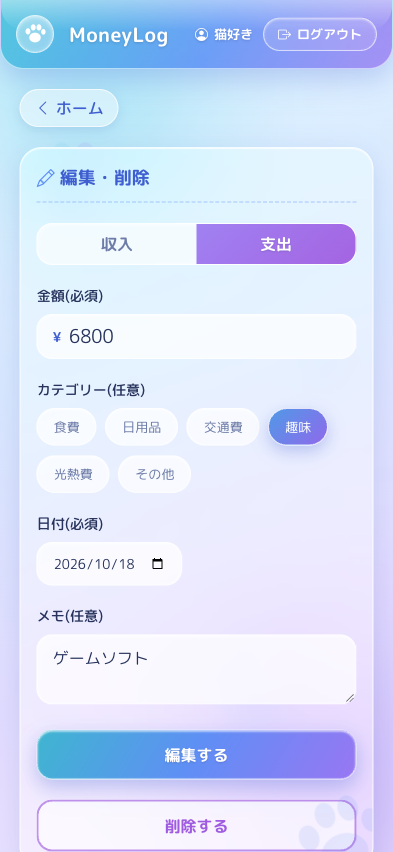
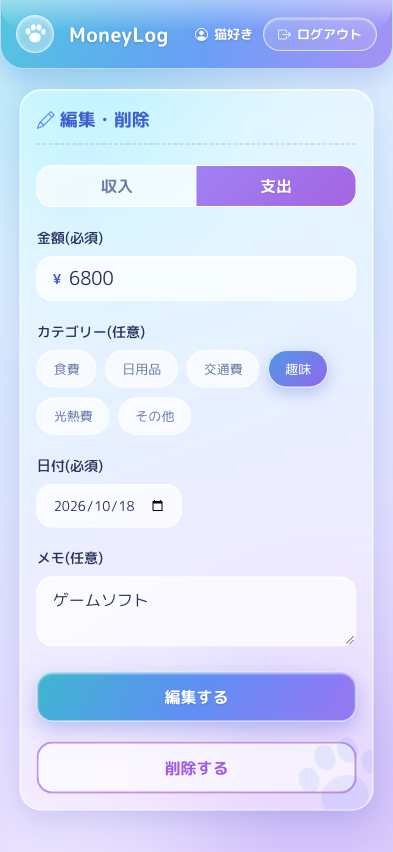
ヘッダーのMoneyLogをクリックして，ホーム画面に遷移するように変更

diff --git a/public/css/style_cat.css b/public/css/style_cat.css
@@ -185,6 +185,19 @@ header h1 {
     letter-spacing: 0.02em;
 }
 
+/* アイコンとタイトルをまとめてホームへのリンクにする。
+   リンクにすると header の flex アイテムが1つになるので、中でも flex を組み直す */
+.home-link {
+    display: flex;
+    align-items: center;
+    min-width: 0;
+    transition: opacity 0.2s ease;
+}
+
+.home-link:hover {
+    opacity: 0.85;
+}
+
 h2 {
     font-size: 18px;
     font-weight: 700;
@@ -561,33 +574,6 @@ a.add-btn:hover {
 /* ////////////////////////////////// */
 /* 新規登録画面 */
 /* ////////////////////////////////// */
-
-.back-to-home {
-    margin-bottom: 20px;
-}
-
-.back-to-home a {
-    display: inline-flex;
-    align-items: center;
-    color: var(--color-main-dark);
-    font-weight: 500;
-    padding: 6px 14px;
-    border-radius: 999px;
-    background: var(--glass-bg);
-    -webkit-backdrop-filter: blur(10px);
-    backdrop-filter: blur(10px);
-    border: 1px solid var(--glass-border);
-    box-shadow: 0 4px 12px rgba(55, 85, 170, 0.14);
-    transition: background-color 0.2s ease;
-}
-
-.back-to-home a:hover {
-    background: var(--glass-bg-strong);
-}
-
-.back-to-home span {
-    margin-left: 5px;
-}
 
 /* 収入/支出選択ボタン */
 .income-expense-btn-area {

diff --git a/tests/Feature/HeaderTest.php b/tests/Feature/HeaderTest.php
@@ -40,6 +40,43 @@ class HeaderTest extends TestCase
         $response->assertSee('action="' . url('/logout') . '"', false);
     }
 
+    /**
+     * ヘッダーのタイトルがホーム画面へのリンクになっていること。
+     */
+    #[DataProvider('pagesBehindLogin')]
+    public function test_the_title_links_to_the_home_page(string $uri): void
+    {
+        $user = User::factory()->create();
+        $transaction = Transaction::factory()->for($user)->create();
+
+        $response = $this->actingAs($user)->get(sprintf($uri, $transaction->id));
+
+        $response->assertOk();
+        $response->assertSee('<a href="' . route('home') . '" class="home-link">', false);
+        $response->assertSee('MoneyLog');
+    }
+
+    /**
+     * 未ログインの画面には、押してもログイン画面に戻されるだけのリンクを出さない。
+     */
+    public function test_login_and_signup_pages_have_no_home_link(): void
+    {
+        $this->get('/login')->assertDontSee('home-link');
+        $this->get('/signup')->assertDontSee('home-link');
+    }
+
+    /**
+     * ヘッダーから戻れるようになったので、画面ごとの「ホーム」ボタンは置かない。
+     */
+    public function test_pages_behind_login_have_no_separate_back_to_home_button(): void
+    {
+        $user = User::factory()->create();
+        $transaction = Transaction::factory()->for($user)->create();
+
+        $this->actingAs($user)->get('/register_form')->assertDontSee('back-to-home');
+        $this->actingAs($user)->get("/edit_form/{$transaction->id}")->assertDontSee('back-to-home');
+    }
+
     public function test_login_and_signup_pages_have_no_logout_button(): void
     {
         $this->get('/login')->assertDontSee('ログアウト');

diff --git a/resources/views/common/header.blade.php b/resources/views/common/header.blade.php
@@ -1,6 +1,15 @@
 <header>
-    <i class="bi bi-wallet2 fs-1"></i>
-    <h1>MoneyLog</h1>
+    {{-- ログイン中はタイトルをホームへのリンクにする。
+         未ログインのときはホームに入れない（ログイン画面に戻されるだけ）ので、リンクにしない --}}
+    @auth
+        <a href="{{ route('home') }}" class="home-link">
+            <i class="bi bi-wallet2 fs-1"></i>
+            <h1>MoneyLog</h1>
+        </a>
+    @else
+        <i class="bi bi-wallet2 fs-1"></i>
+        <h1>MoneyLog</h1>
+    @endauth
     {{-- ログイン中だけ、誰で入っているかとログアウトを出す --}}
     @auth
         <div class="header-user">

diff --git a/resources/views/register.blade.php b/resources/views/register.blade.php
@@ -5,9 +5,6 @@
     @include('common.header')
     <main>
         <div class="inner-wrap">
-            <div class="back-to-home">
-                <a href="{{ url('/') }}"><i class="bi bi-chevron-left"></i><span>ホーム</span></a>
-            </div>
             <div class="card">
                 <h2>
                     <i class="bi bi-plus-circle"></i>

diff --git a/resources/views/edit.blade.php b/resources/views/edit.blade.php
@@ -5,9 +5,6 @@
     @include('common.header')
     <main>
         <div class="inner-wrap">
-            <div class="back-to-home">
-                <a href="{{ url('/') }}"><i class="bi bi-chevron-left"></i><span>ホーム</span></a>
-            </div>
             <div class="card">
                 <h2>
                     <i class="bi bi-pencil"></i>

diff --git a/README.md b/README.md
@@ -7,6 +7,7 @@
 
 ## 画面
 スマホでの利用を想定しているアプリのため、スクリーンショットもスマホサイズ（393 × 852）で撮影しています。
+ログイン後はどの画面でも、ヘッダーの「MoneyLog」をタップするとホーム画面に戻れます。
 
 ### ログイン画面
 <img src="docs/screenshots/login.png" alt="ログイン画面のスクリーンショット" width="320">
